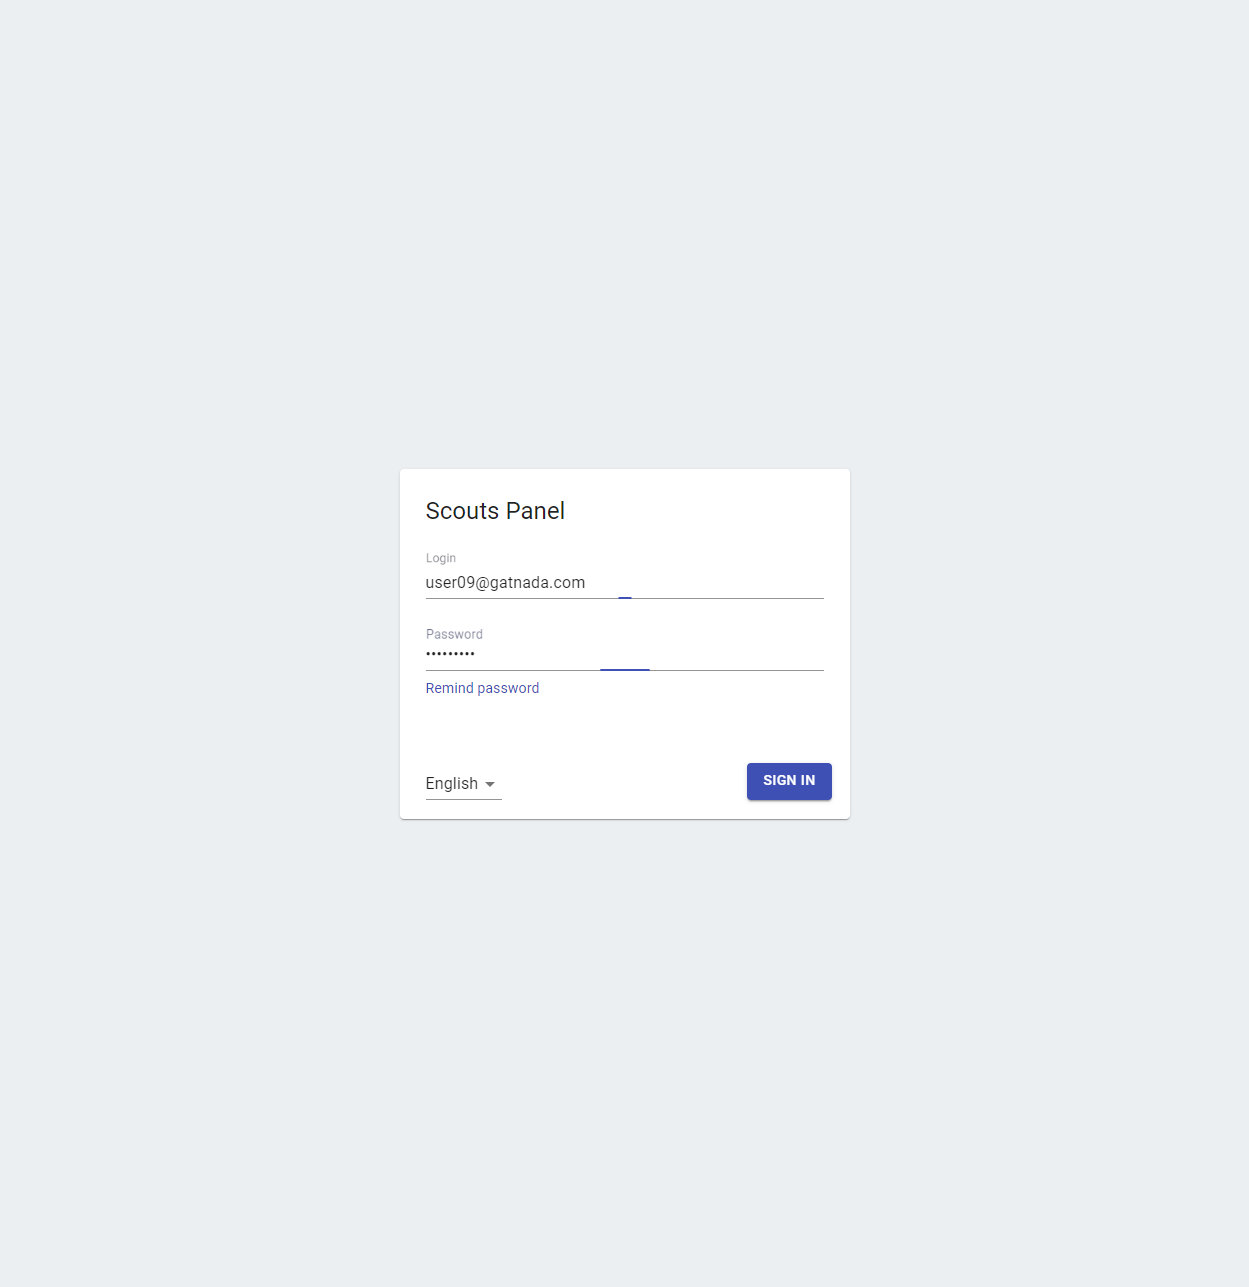
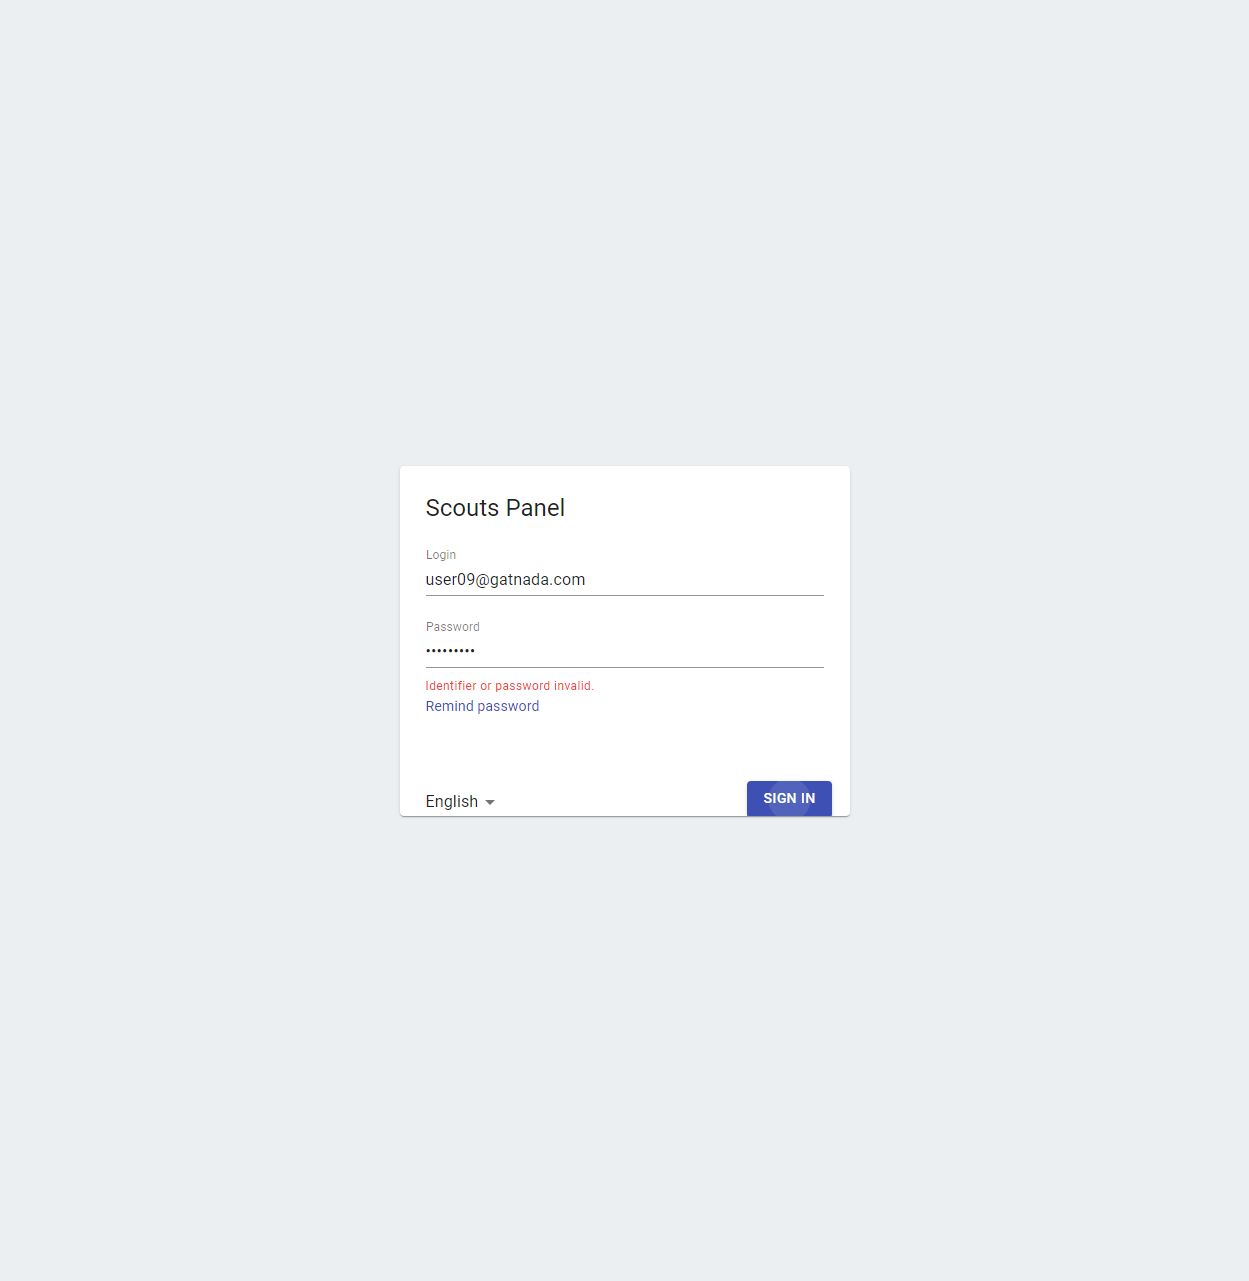
30.07.2023

diff --git a/pages/players_page.py b/pages/players_page.py
@@ -1,3 +1,5 @@
+import time
+
 from pages.base_page import BasePage
 
 from selenium.webdriver import ActionChains
@@ -8,7 +10,7 @@ class PlayersPage(BasePage):
     columns_close_button_xpath = "//body/div[2]/div[3]/button"
     columns_club_box_xpath = "//*[@value='club']"
     columns_main_position_box_xpath = "//*[@value='mainPosition']"
-    columns_matches_boc_xpath = "//*[@value='matches']"
+    columns_matches_box_xpath = "//*[@value='matches']"
     columns_name_box_xpath = "//*[@value='name']"
     columns_rating_box_xpath = "//*[@value='rating']"
     columns_reports_box_xpath = "//*[@value='reports']"
@@ -22,6 +24,7 @@ class PlayersPage(BasePage):
     filters_name_field_xpath = "//div[2]/div[1]/div/div/div/input"
     filters_rate_max_field_xpath = "//div[6]/div/div/div/div[2]/div/input"
     filters_rate_min_field_xpath = "//div[6]/div/div/div/div[1]/div/input"
+    filters_search_button_xpath = "//main/div[2]/div/div/div[2]/div"
     filters_surname_field_xpath = "//div/div[2]/div[2]/div/div/div/input"
     filters_table_button_xpath = "//*[@title='Filter Table']"
     main_page_xpath = "//span[text()='Main page']"
@@ -35,6 +38,7 @@ class PlayersPage(BasePage):
     sign_out_button_xpath = "//span[text()='Sign out']"
     table_age_xpath = "//div/div[text()='Age']"
     table_club_xpath = "//div/div[text()='Club']"
+    table_close_xpath = "/html/body/div[2]/div[3]/button"
     table_main_position_xpath = "//div/div[text()='Main position']"
     table_matches_xpath = "//th/div[text()='Matches']"
     table_name_xpath = "//div/div[text()='Name']"
@@ -57,8 +61,20 @@ class PlayersPage(BasePage):
     def screen_shot_plz(self, apngfile):
         self.driver.get_screenshot_as_file(apngfile)
 
-    def filter_table_fill_field_name(self):
+    def fill_filter_table(self, name, surname, main_position, club):
+        self.click_on_the_element(self.filters_table_button_xpath)
         self.field_send_keys(self.filters_name_field_xpath, name)
-
-    def filter_table_fill_field_surname(self):
         self.field_send_keys(self.filters_surname_field_xpath, surname)
+        self.field_send_keys(self.filters_main_position_field_xpath, main_position)
+        self.field_send_keys(self.filters_club_field_xpath, club)
+        self.click_on_the_element(self.filters_close_button_xpath)
+        self.wait_for_element_to_be_clickable(self.filters_search_button_xpath)
+
+    def choose_columns(self):
+        self.click_on_the_element(self.view_columns_button_xpath)
+        self.click_on_the_element(self.columns_age_box_xpath)
+        self.click_on_the_element(self.columns_rating_box_xpath)
+        self.click_on_the_element(self.columns_matches_box_xpath)
+        self.click_on_the_element(self.columns_reports_box_xpath)
+        self.click_on_the_element(self.columns_close_button_xpath)
+        self.click_on_the_element(self.search_field_xpath)

diff --git a/pages/add_player_page.py b/pages/add_player_page.py
@@ -9,7 +9,9 @@ class AddPlayer(BasePage):
     achievements_field_xpath = "//input[@name='achievements']"
     add_player_url = 'https://scouts-test.futbolkolektyw.pl/en/players/add'
     add_language_button_xpath = "//button[@aria-label='Add language']"
+    add_language_input_xpath = "//input[@name='languages[0]']"
     add_link_yt_button_xpath = "//button[@aria-label='Add link to Youtube']"
+    add_link_yt_input_xpath = "//input[@name='webYT[0]']"
     add_player_title_xpath = "//span[text()='Add player']"
     age_field_xpath = "//input[@name='age']"
     clear_button_xpath = "//span[text()='Clear']"
@@ -25,6 +27,8 @@ class AddPlayer(BasePage):
     main_page_xpath = "//span[text()='Main page']"
     main_position_field_xpath = "//input[@name='mainPosition']"
     name_field_xpath = "//input[@name='name']"
+    notification_redirect_eng_xpath = "//*[text()='Redirect to edit page']"
+    notification_saved_eng_xpath = "//*[text()='Added player.']"
     phone_field_xpath = "//input[@name='phone']"
     players_xpath = "//span[text()='Players']"
     polski_language_xpath = "//span[text()='Polski']"
@@ -39,6 +43,7 @@ class AddPlayer(BasePage):
     web_laczy_field_xpath = "//input[@name='webLaczy']"
     weight_field_xpath = "//input[@name='weight']"
     expected_title = 'Add player'
+
 
     def title_of_page(self):
         self.wait_for_element_to_be_clickable(self.submit_button_xpath)
@@ -91,5 +96,31 @@ class AddPlayer(BasePage):
         self.click_on_the_element(self.district_field_xpath)
         self.click_on_the_element(self.district_field_dolnoslaskie_xpath)
 
-    #def visibility_of_element_located(self, selector, selector_type=By.XPATH):
-        #self
+    def popup_located(self):
+        self.visibility_of_element_located(self.notification_saved_eng_xpath)
+        self.visibility_of_element_located(self.notification_redirect_eng_xpath)
+
+    def type_in_level(self, level):
+        self.field_send_keys(self.level_field_xpath, level)
+
+    def type_in_achievements(self, ach):
+        self.field_send_keys(self.achievements_field_xpath, ach)
+
+    def type_in_language(self, lang):
+        self.click_on_the_element(self.add_language_button_xpath)
+        self.field_send_keys(self.add_language_input_xpath, lang)
+
+    def type_in_laczy(self, laczy):
+        self.field_send_keys(self.web_laczy_field_xpath, laczy)
+
+    def type_in_90(self, web_90):
+        self.field_send_keys(self.web_90_field_xpath, web_90)
+
+    def type_in_fb(self, fb):
+        self.field_send_keys(self.web_fb_field_xpath, fb)
+
+    def type_in_youtube(self, rickroll):
+        self.click_on_the_element(self.add_link_yt_button_xpath)
+        self.field_send_keys(self.add_link_yt_input_xpath, rickroll)
+
+

diff --git a/test_cases/login_invalid_data.py b/test_cases/login_invalid_data.py
@@ -26,6 +26,7 @@ class TestLoginInvalidData(unittest.TestCase):
         user_login.type_in_email('user19@getnada.com')
         user_login.type_in_password('test-4321')
         user_login.click_on_the_sign_in_button()
+        user_login.identifier_notification_located()
         dashboard_page = Dashboard(self.driver)
         user_login.screen_shot_plz('TC_01.png')
         dashboard_page.title_of_page()
@@ -36,6 +37,7 @@ class TestLoginInvalidData(unittest.TestCase):
         user_login.type_in_email('users09@getnada.com')
         user_login.type_in_password('Test-1234')
         user_login.click_on_the_sign_in_button()
+        user_login.identifier_notification_located()
         dashboard_page = Dashboard(self.driver)
         user_login.screen_shot_plz('TC_03.png')
         dashboard_page.title_of_page()
@@ -46,6 +48,7 @@ class TestLoginInvalidData(unittest.TestCase):
         user_login.type_in_email('user09@gatnada.com')
         user_login.type_in_password('test-4321')
         user_login.click_on_the_sign_in_button()
+        user_login.identifier_notification_located()
         dashboard_page = Dashboard(self.driver)
         user_login.screen_shot_plz('TC_02.png')
         dashboard_page.title_of_page()
@@ -54,6 +57,7 @@ class TestLoginInvalidData(unittest.TestCase):
         user_login = LoginPage(self.driver)
         user_login.title_of_page()
         user_login.click_on_the_sign_in_button()
+        user_login.please_provide_notification_located()
         dashboard_page = Dashboard(self.driver)
         user_login.screen_shot_plz('TC_04.png')
         dashboard_page.title_of_page()

diff --git a/test_cases/add_player.py b/test_cases/add_player.py
@@ -45,22 +45,22 @@ class TestAddPlayerPage(unittest.TestCase):
         add_player_page.click_district_select()
         add_player_page.type_in_main_position('Kettlehead')
         add_player_page.type_in_age('11.11.2011')
+        add_player_page.type_in_level('None')
+        add_player_page.type_in_achievements('None')
+        add_player_page.type_in_language('Polish')
+        add_player_page.type_in_laczy('Tak')
+        add_player_page.type_in_90('Też')
+        add_player_page.type_in_fb('To może nie')
+        add_player_page.type_in_youtube('https://www.youtube.com/watch?v=dQw4w9WgXcQ')
         add_player_page.click_submit_button()
+        add_player_page.popup_located()
         add_player_page.click_main_page()
         add_player_page.screen_shot_plz('TC_05-1.png')
         dashboard_page = Dashboard(self.driver)
         dashboard_page.title_of_page()
-        #dashboard_page.activity_last_created_player()
         dashboard_page.screen_shot_plz('TC_05-2.png')
 
-    #def test_last_created_player(self):
-        #user_login = LoginPage(self.driver)
-        #user_login.type_in_email('user09@getnada.com')
-        #user_login.type_in_password('Test-1234')
-        #user_login.click_on_the_sign_in_button()
-        #dashboard_page = Dashboard(self.driver)
-        #dashboard_page.activity_last_created_player()
-        #does not work... see why
+
 
     @classmethod
     def tearDown(self):

diff --git a/test_cases/all_suite_test.py b/test_cases/all_suite_test.py
@@ -1,0 +1,31 @@
+import unittest
+
+
+from unittest.loader import makeSuite
+
+from test_cases.framework import Test
+from test_cases.add_player import TestAddPlayerPage
+from test_cases.hyperlink_on_login_page_response import TestHyperlinkLoginPage
+from test_cases.Log_in_log_out_test import TestLoginLogout
+from test_cases.login_invalid_data import TestLoginInvalidData
+from test_cases.login_to_the_system import TestLoginPage
+from test_cases.remind_password_test import TestRemindPassword
+from test_cases.players_test import TestPlayersSearch
+
+
+
+def full_suite():
+    test_suite = unittest.TestLoader()
+    login_test = test_suite.loadTestsFromTestCase(TestLoginPage)
+    add_player = test_suite.loadTestsFromTestCase(TestAddPlayerPage)
+    hyperlink = test_suite.loadTestsFromTestCase(TestHyperlinkLoginPage)
+    login_logout = test_suite.loadTestsFromTestCase(TestLoginLogout)
+    invalid_data = test_suite.loadTestsFromTestCase(TestLoginInvalidData)
+    remind_password = test_suite.loadTestsFromTestCase(TestRemindPassword)
+    players_search = test_suite.loadTestsFromTestCase(TestPlayersSearch)
+    return unittest.TestSuite\
+        ([login_test, add_player, hyperlink, login_logout, invalid_data, remind_password, players_search])
+
+if __name__ == '__main__':
+    runner = unittest.TextTestRunner(verbosity=2)
+    runner.run(full_suite())

diff --git a/pages/login_page.py b/pages/login_page.py
@@ -5,9 +5,11 @@ from pages.base_page import BasePage
 
 
 class LoginPage(BasePage):
+    ident_or_pass_invalid_xpath = "//*[contains(text(),'Identifier')]"
     language_listbox_xpath = "//form/div/div[2]/div/div"
     login_error_notification_xpath = '//form/div/div[1]/div[3]/span'
     login_field_xpath = "//*[@id='login']"
+    notify_password_email_xpath = "//*[contains(text(),'Please')]"
     password_field_xpath = "//*[@id='password']"
     przypomnij_hasło_hyperlink_xpath = "//a[text()='Przypomnij hasło']"
     remind_password_hyperlink_xpath = "//a[text()='Remind password']"
@@ -16,7 +18,6 @@ class LoginPage(BasePage):
     login_url = 'https://scouts-test.futbolkolektyw.pl/en'
     expected_title = 'Scouts panel - sign in'
     expected_text = 'Scouts Panel'
-    expected_error = 'Identifier or password invalid.'
 
 
     def type_in_email(self, email):
@@ -44,3 +45,9 @@ class LoginPage(BasePage):
 
     def screen_shot_plz(self, apngfile):
         self.driver.get_screenshot_as_file(apngfile)
+
+    def please_provide_notification_located(self):
+        self.visibility_of_element_located(self.notify_password_email_xpath)
+
+    def identifier_notification_located(self):
+        self.visibility_of_element_located(self.ident_or_pass_invalid_xpath)

diff --git a/test_cases/players_test.py b/test_cases/players_test.py
@@ -11,7 +11,7 @@ from pages.players_page import PlayersPage
 from utils.settings import DRIVER_PATH, IMPLICITLY_WAIT
 
 
-class TestPlayersPage(unittest.TestCase):
+class TestPlayersSearch(unittest.TestCase):
 
     @classmethod
     def setUp(self):
@@ -22,19 +22,18 @@ class TestPlayersPage(unittest.TestCase):
         self.driver.fullscreen_window()
         self.driver.implicitly_wait(IMPLICITLY_WAIT)
 
-    def test_search(self):
+    def test_search_filter_table(self):
         user_login = LoginPage(self.driver)
         user_login.title_of_page()
         user_login.type_in_email('user09@getnada.com')
         user_login.type_in_password('Test-1234')
         user_login.click_on_the_sign_in_button()
         dashboard_page = Dashboard(self.driver)
-        dashboard_page.click_add_player_button()
         dashboard_page.click_players()
         players_page = PlayersPage(self.driver)
-        #players_page.search_name('Eric')
-        #players_page.screen_shot_plz('')
-        #search in the filters table
+        players_page.fill_filter_table('Michael', 'Kelso', 'Kettlehead', 'Point Place')
+        players_page.choose_columns()
+        players_page.screen_shot_plz('TC_09.png')
 
 
     @classmethod

diff --git a/test_cases/remind_password_test.py b/test_cases/remind_password_test.py
@@ -10,7 +10,7 @@ from pages.remind_password_page import RemindPasswordPage
 from utils.settings import DRIVER_PATH, IMPLICITLY_WAIT
 
 
-class TestRemindPasswordLink(unittest.TestCase):
+class TestRemindPassword(unittest.TestCase):
 
     @classmethod
     def setUp(self):
@@ -28,12 +28,12 @@ class TestRemindPasswordLink(unittest.TestCase):
         remind_password_page = RemindPasswordPage(self.driver)
         remind_password_page.title_of_page()
         remind_password_page.element_located()
-        remind_password_page.screen_shot_plz('TC_08-1')
+        remind_password_page.screen_shot_plz('TC_08-1.png')
         remind_password_page.type_in_email('user09@getnada.com')
         remind_password_page.click_on_the_send_button()
-        #add method to check if send was succesful - how to check popup notification
+        remind_password_page.popup_located()
         remind_password_page.click_on_back_to_sign_in()
         user_login = LoginPage(self.driver)
         user_login.title_of_page()
-        remind_password_page.screen_shot_plz('TC_08-2')
+        remind_password_page.screen_shot_plz('TC_08-2.png')
 

diff --git a/pages/base_page.py b/pages/base_page.py
@@ -35,18 +35,16 @@ class BasePage():
         element = driver.find_element(by=By.XPATH, value=xpath)
         element_text = element.text
         assert expected_text == element_text
+        #login page
 
     def wait_for_element_to_be_clickable(self, selector, selector_type=By.XPATH):
         wait = WebDriverWait(self.driver, 10)
-        element = wait.until(EC.element_to_be_clickable((selector_type, selector)))
+        wait.until(EC.element_to_be_clickable((selector_type, selector)))
         #login page
 
     def visibility_of_element_located(self, selector, selector_type=By.XPATH):
         wait = WebDriverWait(self.driver, 10)
-        element = wait.until(EC.visibility_of_element_located((selector_type, selector)))
+        wait.until(EC.visibility_of_element_located((selector_type, selector)))
         #remind_password_page
 
-    def find_created_player(self, selector, selector_type=By.XPATH):
-        return self.driver.find_element(selector_type, selector)
-        #dashboard_page but does not work
 

diff --git a/pages/dashboard_page.py b/pages/dashboard_page.py
@@ -26,7 +26,8 @@ class Dashboard(BasePage):
     sign_out_button_xpath = "//span[text()='Sign out']"
     dashboard_url = 'https://scouts-test.futbolkolektyw.pl/'
     expected_title = 'Scouts panel'
-    created_player = 'Michael Kelso'
+    created_player_xpath = "//*[contains(text(),'Michael Kelso')]"
+    expected_player = 'Michael Kelso'
 
 
     def title_of_page(self):
@@ -45,12 +46,7 @@ class Dashboard(BasePage):
     def screen_shot_plz(self, apngfile):
         self.driver.get_screenshot_as_file(apngfile)
 
-    #def activity_last_created_player(self):
-        #self.wait_for_element_to_be_clickable(self.scouts_panel_logo_xpath)
-        #time.sleep(2)
-        #new_player = self.find_created_player(self.last_created_player_hyperlink_xpath).text
-        #assert self.created_player == new_player
-    #Does not work... see why?
+
 
 
 

diff --git a/pages/remind_password_page.py b/pages/remind_password_page.py
@@ -15,6 +15,7 @@ class RemindPasswordPage(BasePage):
     remind_password_url = "https://scouts-test.futbolkolektyw.pl/en/remind"
     send_button_xpath = "//button[@type='submit']"
     expected_title = 'Remind password'
+    notification_popup_eng_xpath = "//*[text()='Message sent successfully.']"
 
 
     def type_in_email(self, email):
@@ -35,3 +36,5 @@ class RemindPasswordPage(BasePage):
     def element_located(self):
         self.visibility_of_element_located(self.send_button_xpath)
 
+    def popup_located(self):
+        self.visibility_of_element_located(self.notification_popup_eng_xpath)

diff --git a/pages/add_match_form.py b/pages/add_match_form.py
@@ -21,4 +21,4 @@ class AddMatchForm(BasePage):
     sign_out_button_xpath = "//span[text()='Sign out']"
     submit_button_xpath = "//button[@type='submit']"
     tshirt_color_field_xpath = "//input[@name='tshirt']"
-    pass
+
